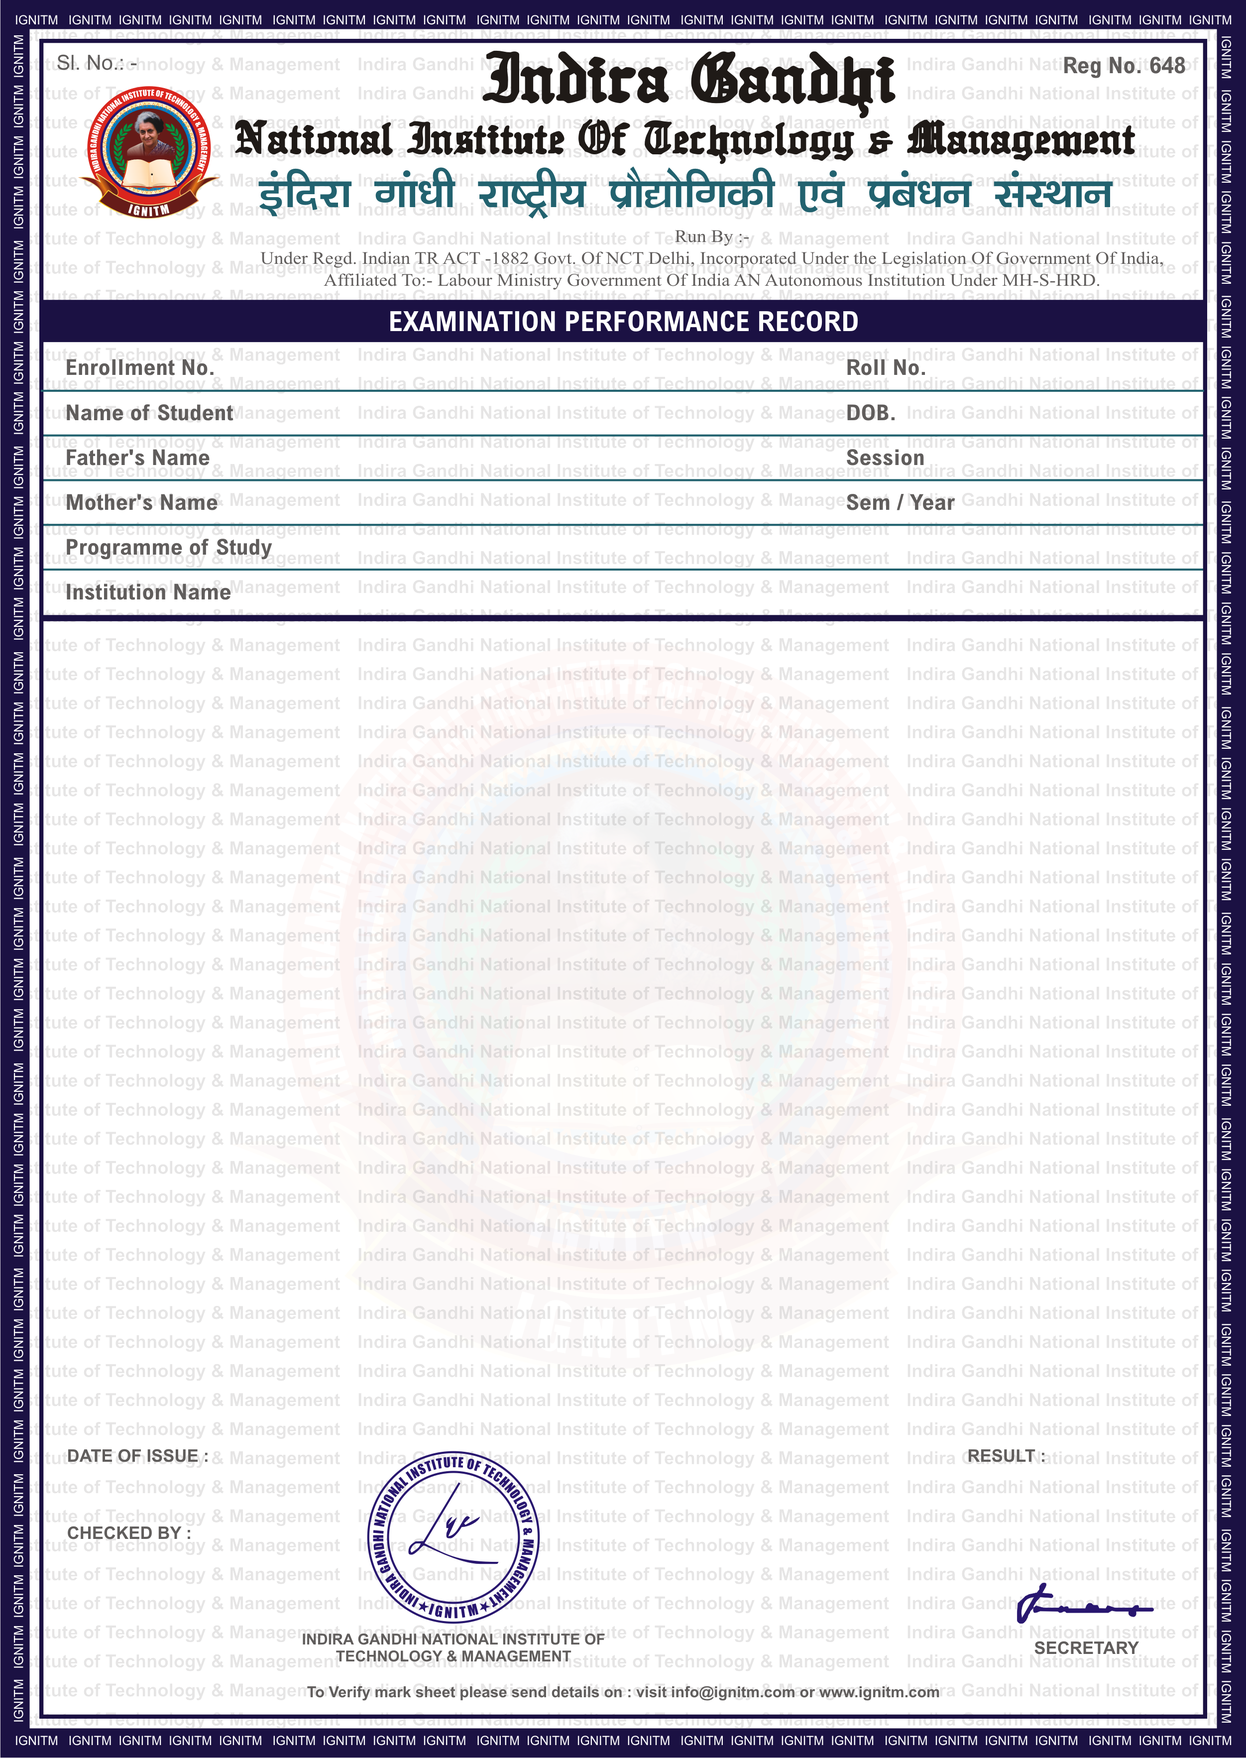
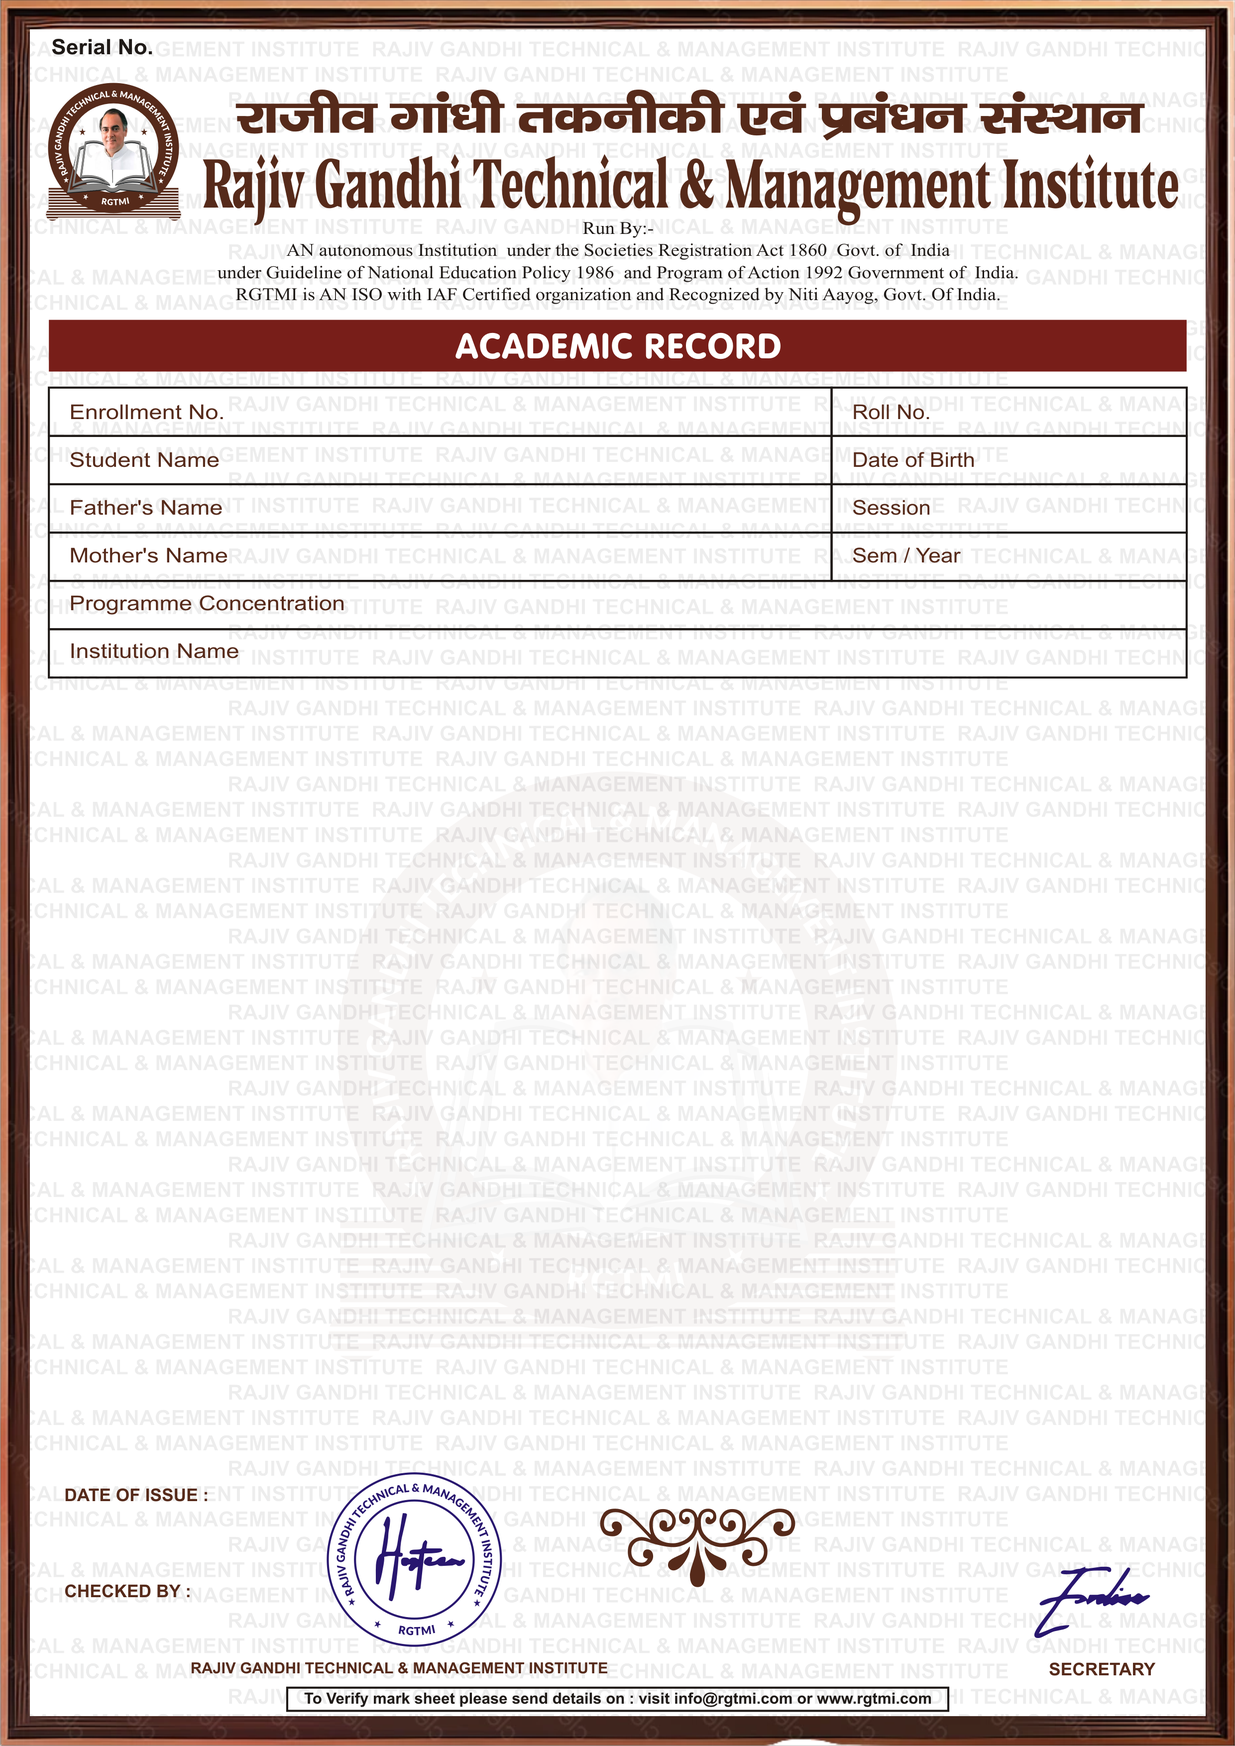
fixes

diff --git a/public/assets/css/style.css b/public/assets/css/style.css
@@ -1,1 +1,1 @@
-body{font-family:'Poppins',sans-serif}html{scroll-behavior:smooth}.toast-container{position:fixed;top:20px;right:20px;z-index:9999}.toast-container .toast{min-width:300px;background-color:#f8d7da;color:#721c24;border:1px solid #f5c6cb;box-shadow:0 4px 6px rgba(0,0,0,0.1)}.toast-container .toast-header{background-color:#f5c6cb;border-bottom:1px solid #f1b0b7}.toast-container .toast-body{color:#721c24}.main-container #side_nav{background:#721c24;min-width:250px;max-width:250px;transition:all 0.3s;z-index:1;height:100vh!important}.main-container .content{min-height:100vh;width:calc(100% - 250px)}.main-container .content .profile-image{height:50px;width:50PX;object-fit:fill;border-radius:100%}.main-container .content .top-bar{background-color:#721c24!important;color:#fff!important;height:115px;top:0}.main-container .content .top-bar .open-menu{font-size:30px}.main-container .sidebar .site-logo{height:75px}.main-container .sidebar .close-menu{font-size:30px;position:absolute;right:0;top:0}.main-container .sidebar li a{color:#fff}.main-container .sidebar li.active{background:#eee;border-radius:8px}.main-container .sidebar li.active a{color:#000}.main-container .sidebar li.active a:hover{color:#000}@media (max-width:991px){.main-container #side_nav{margin-left:-250px;position:absolute!important;height:100vh;z-index:1}.main-container #side_nav.active{margin-left:0}.main-container .content{width:100%}}.login-section{margin:0;height:100vh;background-size:cover;background-position:center;position:relative}.login-section .overlay{position:absolute;top:0;left:0;width:100%;height:100%;background-color:rgba(0,0,0,0.8);z-index:1}.login-section .login-form-container{position:relative;z-index:2;display:flex;justify-content:center;align-items:center;height:100vh}.login-section .login-form-container .title{color:#721c24}.login-section .login-form-container .form-box{max-width:400px;width:100%;padding:2rem;background:#fff;border-radius:10px;box-shadow:0 4px 8px rgba(0,0,0,0.2);text-align:center}.login-section .login-form-container .form-box button{background-color:#721c24}footer{left:0;right:0;z-index:0;background-color:#721c24;bottom:0}.form-button{background-color:#721c24!important;color:#fff!important}.pagination-table{vertical-align:middle;text-align:center}@media (max-width:576px){.pagination-table{white-space:nowrap!important}}.pagination-table th{white-space:nowrap}.pagination-table .form-check-input{height:1.6em}.pagination-table .form-switch .form-check-input:focus{border:1px solid #3b966b;box-shadow:none}.pagination-table .form-switch .form-check-input{width:3em}.pagination-table .form-check-input:checked{background-color:#4ac38b;border-color:#3b966b}.pagination-table thead tr:first-child{background-color:#721c24;color:#fff}.pagination-table thead tr:last-child{background-color:#b4bbc1;color:#fff;border:none}.bg-primary,.btn-primary,.primary{background-color:#661B18!important;color:#fff!important}.btn-primary{border-color:#661B18!important}.btn-check:focus+.btn-primary,.btn-primary:focus{box-shadow:0 0 0 0.25rem rgba(102,27,24,0.23)!important}.clock{width:70px;height:70px;border:5px solid #fff;border-radius:50%;position:relative;background:transparent;box-shadow:0 4px 8px rgba(0,0,0,0.2)}.clock .center{width:10px;height:10px;background-color:#000;border-radius:50%;position:absolute;top:50%;left:50%;transform:translate(-50%,-50%);z-index:10}.clock .hand{width:50%;height:2px;background-color:#721c24;position:absolute;top:50%;transform-origin:100%;transform:rotate(90deg);transition:all 0.05s cubic-bezier(0.4,2.3,0.3,1)}.clock .hour{height:4px;background-color:#fff}.clock .minute{height:3px;background-color:#fff}.clock .second{height:2px;background-color:red}.card{border:none;border-radius:10px;color:white}.bg-primary-custom{background-color:#007bff}.bg-success-custom{background-color:#28a745}.bg-danger-custom{background-color:#dc3545}.bg-warning-custom{background-color:#ffc107;color:#212529}.card-icon{font-size:50px;opacity:0.8}.scroll{height:540px;overflow:auto}.scroll .card{background-color:#f3f3f3!important}.scroll h5{background-color:#41464b;text-align:center;padding:8px 0;margin:12px 0 28px;color:#fff;position:sticky;top:0}.student-photo{height:50px;width:50PX;object-fit:fill;border-radius:100%}#loader{position:fixed;top:0;left:0;width:100%;height:100%;background:rgba(255,255,255,0.8);display:flex;align-items:center;justify-content:center;z-index:9999}.spinner{width:100px;height:100px;border:5px solid #3498db;border-top:5px solid transparent;border-radius:50%;animation:spin 1s linear infinite}@keyframes spin{0%{transform:rotate(0deg)}to{transform:rotate(360deg)}}.heading{background:#41464b;padding:12px 8px;border-radius:8px;text-align:center;color:#fff}@media (max-width:1920px){h1,h2,h3,h4,h5,h6{font-size:18px!important}a,button,div,form,input,li,ol,p,select,span,table,td,textarea,th,tr,ul{font-size:14px!important}}
+body{font-family:'Poppins',sans-serif}html{scroll-behavior:smooth}.toast-container{position:fixed;top:20px;right:20px;z-index:9999}.toast-container .toast{min-width:300px;background-color:#f8d7da;color:#885e4f;border:1px solid #f5c6cb;box-shadow:0 4px 6px rgba(0,0,0,0.1)}.toast-container .toast-header{background-color:#f5c6cb;border-bottom:1px solid #f1b0b7}.toast-container .toast-body{color:#885e4f}.main-container #side_nav{background:#885e4f;min-width:250px;max-width:250px;transition:all 0.3s;z-index:1;height:100vh!important}.main-container .content{min-height:100vh;width:calc(100% - 250px)}.main-container .content .profile-image{height:50px;width:50PX;object-fit:fill;border-radius:100%}.main-container .content .top-bar{background-color:#885e4f!important;color:#fff!important;height:115px;top:0}.main-container .content .top-bar .open-menu{font-size:30px}.main-container .sidebar .site-logo{height:75px}.main-container .sidebar .close-menu{font-size:30px;position:absolute;right:0;top:0}.main-container .sidebar li a{color:#fff}.main-container .sidebar li.active{background:#eee;border-radius:8px}.main-container .sidebar li.active a{color:#000}.main-container .sidebar li.active a:hover{color:#000}@media (max-width:991px){.main-container #side_nav{margin-left:-250px;position:absolute!important;height:100vh;z-index:1}.main-container #side_nav.active{margin-left:0}.main-container .content{width:100%}}.login-section{margin:0;height:100vh;background-size:cover;background-position:center;position:relative}.login-section .overlay{position:absolute;top:0;left:0;width:100%;height:100%;background-color:rgba(0,0,0,0.8);z-index:1}.login-section .login-form-container{position:relative;z-index:2;display:flex;justify-content:center;align-items:center;height:100vh}.login-section .login-form-container .title{color:#885e4f}.login-section .login-form-container .form-box{max-width:400px;width:100%;padding:2rem;background:#fff;border-radius:10px;box-shadow:0 4px 8px rgba(0,0,0,0.2);text-align:center}.login-section .login-form-container .form-box button{background-color:#885e4f}footer{left:0;right:0;z-index:0;background-color:#885e4f;bottom:0}.form-button{background-color:#885e4f!important;color:#fff!important}.pagination-table{vertical-align:middle;text-align:center}@media (max-width:576px){.pagination-table{white-space:nowrap!important}}.pagination-table th{white-space:nowrap}.pagination-table .form-check-input{height:1.6em}.pagination-table .form-switch .form-check-input:focus{border:1px solid #3b966b;box-shadow:none}.pagination-table .form-switch .form-check-input{width:3em}.pagination-table .form-check-input:checked{background-color:#4ac38b;border-color:#3b966b}.pagination-table thead tr:first-child{background-color:#885e4f;color:#fff}.pagination-table thead tr:last-child{background-color:#b4bbc1;color:#fff;border:none}.bg-primary,.btn-primary,.primary{background-color:#885e4f!important;color:#fff!important}.btn-primary{border-color:#885e4f!important}.btn-check:focus+.btn-primary,.btn-primary:focus{box-shadow:0 0 0 0.25rem rgba(102,27,24,0.23)!important}.clock{width:70px;height:70px;border:5px solid #fff;border-radius:50%;position:relative;background:transparent;box-shadow:0 4px 8px rgba(0,0,0,0.2)}.clock .center{width:10px;height:10px;background-color:#000;border-radius:50%;position:absolute;top:50%;left:50%;transform:translate(-50%,-50%);z-index:10}.clock .hand{width:50%;height:2px;background-color:#885e4f;position:absolute;top:50%;transform-origin:100%;transform:rotate(90deg);transition:all 0.05s cubic-bezier(0.4,2.3,0.3,1)}.clock .hour{height:4px;background-color:#fff}.clock .minute{height:3px;background-color:#fff}.clock .second{height:2px;background-color:red}.card{border:none;border-radius:10px;color:white}.bg-primary-custom{background-color:#007bff}.bg-success-custom{background-color:#28a745}.bg-danger-custom{background-color:#dc3545}.bg-warning-custom{background-color:#ffc107;color:#212529}.card-icon{font-size:50px;opacity:0.8}.scroll{height:540px;overflow:auto}.scroll .card{background-color:#f3f3f3!important}.scroll h5{background-color:#41464b;text-align:center;padding:8px 0;margin:12px 0 28px;color:#fff;position:sticky;top:0}.student-photo{height:50px;width:50PX;object-fit:fill;border-radius:100%}#loader{position:fixed;top:0;left:0;width:100%;height:100%;background:rgba(255,255,255,0.8);display:flex;align-items:center;justify-content:center;z-index:9999}.spinner{width:100px;height:100px;border:5px solid #3498db;border-top:5px solid transparent;border-radius:50%;animation:spin 1s linear infinite}@keyframes spin{0%{transform:rotate(0deg)}to{transform:rotate(360deg)}}.heading{background:#41464b;padding:12px 8px;border-radius:8px;text-align:center;color:#fff}@media (max-width:1920px){h1,h2,h3,h4,h5,h6{font-size:18px!important}a,button,div,form,input,li,ol,p,select,span,table,td,textarea,th,tr,ul{font-size:14px!important}}

diff --git a/public/assets/css/style.less b/public/assets/css/style.less
@@ -15,7 +15,7 @@ html {
     .toast {
         min-width: 300px;
         background-color: #f8d7da;
-        color: #721c24;
+        color: #885e4f;
         border: 1px solid #f5c6cb;
         box-shadow: 0 4px 6px rgba(0, 0, 0, 0.1);
     }
@@ -26,13 +26,13 @@ html {
     }
 
     .toast-body {
-        color: #721c24;
+        color: #885e4f;
     }
 }
 
 .main-container {
     #side_nav {
-        background: #721c24;
+        background: #885e4f;
         min-width: 250px;
         max-width: 250px;
         transition: all 0.3s;
@@ -53,7 +53,7 @@ html {
         }
 
         .top-bar {
-            background-color: #721c24 !important;
+            background-color: #885e4f !important;
             color: #fff !important;
             height: 115px;
             top: 0;
@@ -140,7 +140,7 @@ html {
         height: 100vh;
 
         .title {
-            color: #721c24;
+            color: #885e4f;
         }
 
         .form-box {
@@ -153,7 +153,7 @@ html {
             text-align: center;
 
             button {
-                background-color: #721c24;
+                background-color: #885e4f;
             }
         }
     }
@@ -163,12 +163,12 @@ footer {
     left: 0;
     right: 0;
     z-index: 0;
-    background-color: #721c24;
+    background-color: #885e4f;
     bottom: 0;
 }
 
 .form-button {
-    background-color: #721c24 !important;
+    background-color: #885e4f !important;
     color: #fff !important;
 }
 
@@ -206,7 +206,7 @@ footer {
 
     thead {
         tr:first-child {
-            background-color: #721c24;
+            background-color: #885e4f;
             color: #fff;
         }
     }
@@ -222,12 +222,12 @@ footer {
 }
 
 .btn-primary, .bg-primary, .primary {
-    background-color: #661B18 !important;
+    background-color: #885e4f !important;
     color: #fff !important;
 }
 
 .btn-primary{
-    border-color: #661B18 !important;
+    border-color: #885e4f !important;
 }
 .btn-check:focus+.btn-primary, .btn-primary:focus{
     box-shadow: 0 0 0 .25rem rgba(102, 27, 24, 0.23) !important;
@@ -256,7 +256,7 @@ footer {
     .hand {
         width: 50%;
         height: 2px;
-        background-color: #721c24;
+        background-color: #885e4f;
         position: absolute;
         top: 50%;
         transform-origin: 100%;

diff --git a/resources/views/mail/invitation-mail.blade.php b/resources/views/mail/invitation-mail.blade.php
@@ -66,14 +66,14 @@
     </div>
     <div class="email-body">
         <p><b>Dear {{$user->name}},</b></p>
-        <p>Welcome to IGNITM! 🚀 We’re excited to have you on board. Your account has been successfully created, and you’re just one step away from accessing all our features.</p>
+        <p>Welcome to RGTMI! 🚀 We’re excited to have you on board. Your account has been successfully created, and you’re just one step away from accessing all our features.</p>
         <h4>Set Up Your Password:</h4>
         <p>To ensure your account security, please create a new password before logging in:</p>
 
         <p>🔹 Set Your Password Here:<br><a href="{{env('LIVE_URL')}}set-password/{{$user->email}}/{{$user->remember_token}}" class="reset-button">Set Password</a></p>
         <p>If the button above doesn’t work, copy and paste the following link into your browser:</p>
         <h4>Once your password is set, you can log in and start exploring:</h4>
-        <p>Login Here:<br><a class="reset-button" href="{{env('LIVE_URL')}}">IGNITM Login</a></p>
+        <p>Login Here:<br><a class="reset-button" href="{{env('LIVE_URL')}}">RGTMI Login</a></p>
         <h4>What’s Next?</h4>
         <p>
             ✅ Complete Your Profile – Get personalized recommendations.<br>
@@ -81,16 +81,16 @@
             ✅ Stay Updated – Look out for exclusive insights, updates, and special offers.</p>
         <h4>Need Help?</h4>
 
-        <p>If you didn’t sign up for this account or need assistance, please contact us at <a href="mailto:support@ignitm.com">support@ignitm.com</a>.<br>
+        <p>If you didn’t sign up for this account or need assistance, please contact us at <a href="mailto:support@rgtmi.com">support@rgtmi.com</a>.<br>
         🔹 Follow us for the latest updates:<br>
         📌 LinkedIn | 📌 Twitter | 📌 Facebook</p>
         <p>Thank you for joining us! We’re here to support you every step of the way.</p>
         <p><b>Best regards,</b></p>
-        <p><b>The IGNITM Team</b></p>
-        <p>🌐 <a href="https://software.ignitm.com/">https://software.ignitm.com/</a></p>
+        <p><b>The RGTMI Team</b></p>
+        <p>🌐 <a href="https://software.rgtmi.com/">https://software.rgtmi.com/</a></p>
     </div>
     <div class="email-footer">
-        &copy; {{date('Y')}} IGNITM. All rights reserved.
+        &copy; {{date('Y')}} RGTMI. All rights reserved.
     </div>
 </div>
 </body>

diff --git a/resources/views/mail/reset-password.blade.php b/resources/views/mail/reset-password.blade.php
@@ -66,13 +66,13 @@
     </div>
     <div class="email-body">
         <p>Hi {{$user->name}},</p>
-        <p>We received a request to reset your password for your IGNITM account. If you made this request, you can reset your password by clicking the button below:</p>
+        <p>We received a request to reset your password for your RGTMI account. If you made this request, you can reset your password by clicking the button below:</p>
         <a href="{{env('LIVE_URL')}}set-password/{{$user->email}}/{{$user->remember_token}}" class="reset-button">Reset Password</a>
         <p>If the button above doesn’t work, copy and paste the following link into your browser:</p>
         <p><a href="{{env('LIVE_URL')}}set-password/{{$user->email}}/{{$user->remember_token}}">{{env('LIVE_URL')}}set-password/{{$user->email}}/{{$user->remember_token}}</a></p>
         <p>This link will expire in 24 hour, so be sure to reset your password soon.</p>
         <p>If you didn’t request a password reset, please ignore this email. Your account is secure.</p>
-        <p>If you have any questions, feel free to contact our support team at <a href="mailto:support@ignitm.com">support@ignitm.com</a>.</p>
+        <p>If you have any questions, feel free to contact our support team at <a href="mailto:support@rgtmi.com">support@rgtmi.com</a>.</p>
         <p>Thank you,</p>
         <p>The SVNTECHNICAL Team</p>
     </div>

diff --git a/app/Http/Controllers/Result/ResultController.php b/app/Http/Controllers/Result/ResultController.php
@@ -164,7 +164,7 @@ class ResultController extends Controller
             $theoreticalMarks = ceil(($subject->max_marks * $subjectPercentage) / 100);
 
             // Ensure theory marks are at least the minimum required (with some buffer above minimum)
-            $theoryMinimum = $subject->min_marks;
+            $theoryMinimum = $subject->min_marks > 30 ? $subject->min_marks - 30 : $subject->min_marks;
             $theoryObtained = max($theoreticalMarks, $theoryMinimum + random_int(1, 5));
 
             // Ensure we don't exceed maximum marks
@@ -179,7 +179,7 @@ class ResultController extends Controller
                 $practicalMarks = ceil(($subject->practical_max_marks * $practicalPercentage) / 100);
 
                 // Ensure practical marks are at least the minimum required
-                $practicalMinimum = $subject->practical_min_marks;
+                $practicalMinimum = $subject->practical_min_marks > 15 ? $subject->practical_min_marks - 15 : $subject->practical_min_marks;
                 $practicalObtained = max($practicalMarks, $practicalMinimum + random_int(1, 3));
 
                 // Ensure we don't exceed maximum practical marks

diff --git a/app/Http/Controllers/Certificate/CertificateController.php b/app/Http/Controllers/Certificate/CertificateController.php
@@ -309,7 +309,7 @@ class CertificateController extends Controller
             'institute_name' => $this->getInstituteName($streamName, $student),
             'serial_number' => $completionDate->format('Yd') . $student->id,
             'footer_date' => $exactDate,
-            'reg_no' => "MIG/IGNITM/{$prefixParts[0]}/" . $completionDate->format('Y') . rand(0, 99),
+            'reg_no' => "MIG/RGTMI/{$prefixParts[0]}/" . $completionDate->format('Y') . rand(0, 99),
             'roll_number' => $student->course->prefix->prefix . $student->rollNumbers()->latest('id')->first()?->roll_number,
             'course_name' => $student->course->name,
             'date_of_birth' => Carbon::parse($student->dob)->format('d-M-Y'),

diff --git a/app/Http/Controllers/Center/CenterController.php b/app/Http/Controllers/Center/CenterController.php
@@ -65,7 +65,7 @@ class CenterController extends Controller
             'state' => $request->state,
             'address' => $request->address,
             'owner_name' => $request->owner_name,
-            'registration_prefix' => $center == 0 ? 'IGNITM/CL/0' . '129' : 'IGNITM/CL/0' . (129 + $center)
+            'registration_prefix' => $center == 0 ? 'RGTMI/CL/0' . '129' : 'IGNITM/CL/0' . (129 + $center)
         ]);
         InvitationMailJob::dispatch($user);
         session()->flash('success', 'Center registered successfully.');

diff --git a/resources/views/mail/set-password.blade.php b/resources/views/mail/set-password.blade.php
@@ -5,7 +5,7 @@
         <div class="overlay"></div>
         <div class="login-form-container">
             <div class="form-box">
-                <h2 class="mb-4 text-dark">Set Password <span class="title">IGNITM</span></h2>
+                <h2 class="mb-4 text-dark">Set Password <span class="title">RGTMI</span></h2>
                 <form method="POST" action="{{ route('setPassword') }}">
                     @csrf
                     <input type="hidden" name="email" value="{{$user->email}}">

diff --git a/resources/views/auth/login.blade.php b/resources/views/auth/login.blade.php
@@ -5,7 +5,7 @@
         <div class="overlay"></div>
         <div class="login-form-container">
             <div class="form-box">
-                <h2 class="mb-4 text-dark">Login to <span class="title">IGNITM</span></h2>
+                <h2 class="mb-4 text-dark">Login to <span class="title">RGTMI</span></h2>
                 <form method="POST" action="{{ route('login') }}">
                     @csrf
                     <div class="mb-3">

diff --git a/resources/views/center/add-centers.blade.php b/resources/views/center/add-centers.blade.php
@@ -7,7 +7,7 @@
             <div class="col-6 mb-3">
                 <label for="reg_number" class="form-label">Center Reg No</label>
                 <input type="text" name="reg_number" id="reg_number" class="form-control" readonly
-                       value="IGNITM/CL/0{{ $counts == 0 ? 129 : 129 + $counts }}"
+                       value="RGTMI/CL/0{{ $counts == 0 ? 129 : 129 + $counts }}"
                 >
             </div>
 

diff --git a/resources/views/certificate/consolidate-result.blade.php b/resources/views/certificate/consolidate-result.blade.php
@@ -36,7 +36,7 @@
 @php
     $isSingleRecord = count($data['results']) <= 2;
     $isLargeDataset = count($data['results']) > 6;
-    $fontSize = $isSingleRecord ? '39px' : '16px';
+    $fontSize = $isSingleRecord ? '39px' : '19px';
 
     $columnWidths = $isSingleRecord
         ? ['all_entries'=>'50px' , 'subject'=>'500px']
